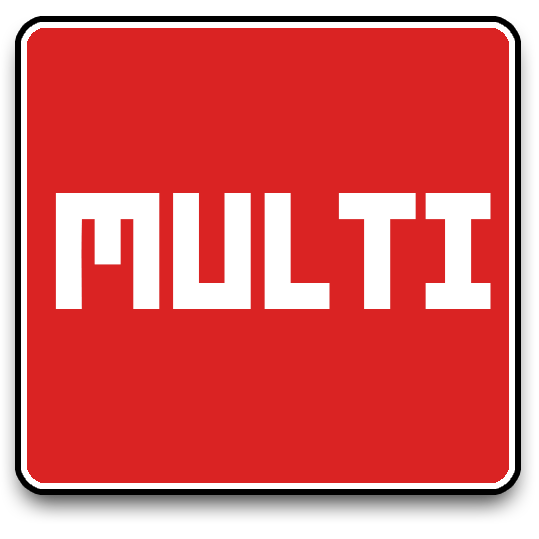
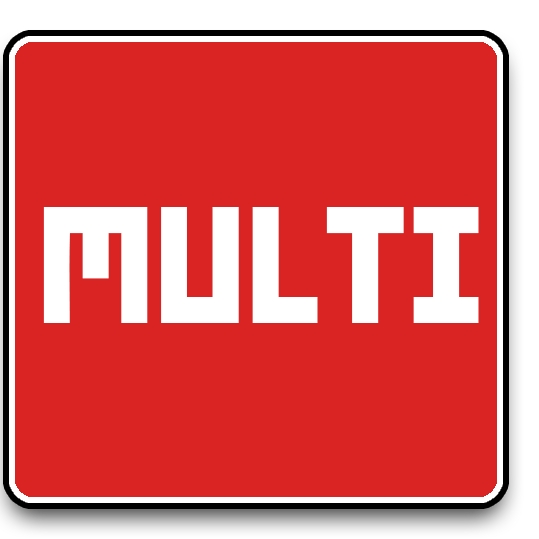
Image bouton modif

Changed region(s): [[0.0, 0.0297, 0.9796, 0.9796]]

diff --git a/SoccerGame/main.cpp b/SoccerGame/main.cpp
@@ -100,15 +100,11 @@ int main()
 		double posX_solo = fact_position_X_solo * dWidth;
 		double posY = fact_position_Y * dHeight;
 
-		std::cout << "pos x multi : " << posX_multi << std::endl;
-		std::cout << "pos x solo : " << posX_solo << std::endl;
-		std::cout << "pos y : " << posY << std::endl;
-
 		// On positione les sprite
 		sprite_multi.setPosition(posX_multi, posY);
 		sprite_solo.setPosition(posX_solo, posY);
-		sprite_solo_push.setPosition(276, 253);
-		sprite_multi_push.setPosition(705, 250);
+		sprite_solo_push.setPosition(posX_solo, posY);
+		sprite_multi_push.setPosition(posX_multi, posY);
 		// On dessine la sprite
 		window.draw(sprite_multi);
 		window.draw(sprite_solo);
